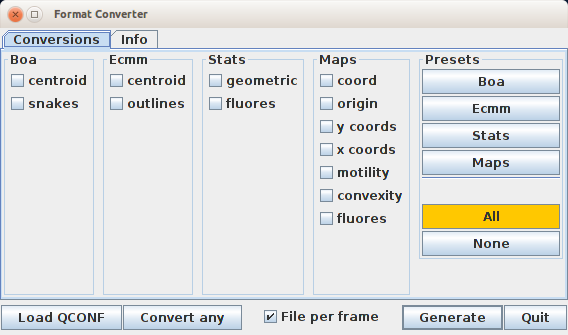
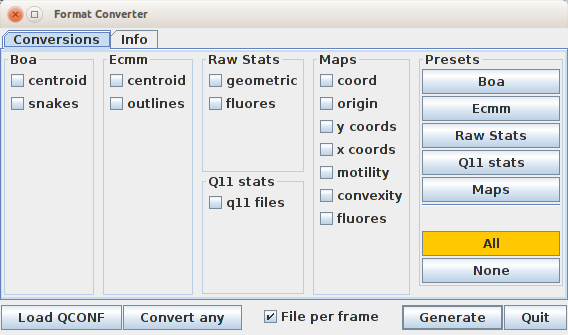
Fixes #9.

diff --git a/Docs/QuimP_Guide.tex b/Docs/QuimP_Guide.tex
@@ -517,14 +517,13 @@ ANA provides 5 further options
 
 Click \textit{OK}.
   
-Fluorescence data associated with specific nodes is added to either \textit{.snQP} 
-file and the \textit{QCONF} file, while whole cell data (e.g. total cortex fluorescence) is written to the \textit{.stQP.csv} file.
+Fluorescence data associated with specific nodes is saved in the \textit{QCONF} file and additionally in \textit{.stQP.csv}.
 
 \textbf{Step 4: For further channels, open the next channel image and re-run ANA.}
 
 \section{Compiling Data - Q Analysis Plugin}
 
-Data within \textit{.snQP} and \textit{.stQP} files can be read into Matlab at this point, but motility maps have not yet been generated.
+Data within \textit{QCONF} file (or \textit{.snQP} and \textit{.stQP} for old path\footnote{Refer to section \ref{sec:DataFilesExplained}}) files can be read into Matlab at this point, but motility maps have not yet been generated\footnote{If old path is selected, otherwise one should use Format Converter tool to obtain these files. Refer to section \ref{sec:DataFilesExplained}}.
 The Q Analysis plugin will build spatial-temporal maps of motility, fluorescence, and convexity,
 and also several other maps to aid analysis.  In addition, vector graphics are produced 
 using the \textit{Scalable Vector Graphics} format.  These include a cell track in which all cell outlines are overlaid and coloured
@@ -739,7 +738,7 @@ Every time when \textit{Apply} button is used, the module runs new analysis and 
 
 \subsection{Parameter files - new format vs. old format}
 The latest QuimP introduces a new file format called QCONF\footnote{above QuimP11}. The \textit{QCONF} is based on human-readable JSON format and it is designed to hold all results evaluated by QuimP on every stage of data processing, together with configuration parameters, algorithm settings, etc. 
-Initially, the \textit{QCONF} is generated by BOA plugin together with standard \textit{paQP} and \textit{snQP} files. Then, it can be loaded and saved by every other QuimP module. The \textit{QCONF} is not replacement for "old" formats - it rather extends them and allows for easy sharing of results between different QuimP modules, restoring work from last point and keeping the whole QuimP configuration in one place.   
+Initially, the \textit{QCONF} is generated by BOA plugin together with \textit{stQP} file (the same statistical measurements are also contained in \textit{QCONF}, \textit{stQP} file is saved separately for convenience sake). Remaining modules depend on \textit{QCONF}, thus they read and write all data from/to this file. The \textit{QCONF} is not replacement for "old" formats - it rather extends them and allows for easy sharing of results between different QuimP modules, restoring work from last point and keeping the whole QuimP configuration in one place.   
 
 Currently, QuimP understands both formats, but its behavior depends on the status of tick box available in QuimP Toolbar (Figure \ref{fig:quimpBar}) and on format loaded to module:
 \begin{itemize}
@@ -775,7 +774,7 @@ The \textit{QCONF} file can be loaded to Matlab using one of the free JSON parse
 \label{sec:ConversionBetweenFormats}
 QuimP supports conversion between old \textit{paQP} and new \textit{QCONF} formats. Simple tool for this purpose is available from the QuimP bar (see Figure \ref{fig:quimpBar}) under \textit{Tools} menu or in extended version as separate module (see Figure \ref{fig:formatconverter}). The module additionally allows to extract numeric data from \textit{QCONF} and save them in \textit{csv} files.
 
-\begin{figure}[ht]
+\begin{figure}[h]
 	\centering
 	\includegraphics[width=16cm]{fcWindow.png} 
 	\caption{Format converter dialog.}
@@ -794,7 +793,7 @@ Conversion tool is available from either the QuimP bar or Format Converter modul
 
 \textbf{Extracting data from \textit{QCONF} format}
 
-The Format converter module allows to save selected parameters evaluated during QuimP workflow as \textit{csv} files. They are not processed in any way (e.g. scaled to different units) and mostly coincide with content of \textit{snQP} or \textit{stQP.csv} files. This tool works only wit \textit{QCONF} files that should be first loaded by \textit{Load QCONF} button. Conversion process is initiated by \textit{Generate} button. Output files are saved in the same folder as input \textit{QCONF}.    
+The Format converter module (Figure \ref{fig:formatconverter}) allows to save selected parameters evaluated during QuimP workflow as \textit{csv} files. They are not processed in any way (e.g. scaled to different units) and mostly coincide with content of \textit{snQP} or \textit{stQP.csv} files (except of \textit{q11 files} checkbox that generates \textit{stQP} files). This tool works only wit \textit{QCONF} files that should be first loaded by \textit{Load QCONF} button. Conversion process is initiated by \textit{Generate} button. Output files are saved in the same folder as input \textit{QCONF}.    
   
 \subsection{Parameter Files - \textit{paQP} Files}
 \label{paQP}
@@ -864,7 +863,8 @@ by ANA (data is listed separately for all 3 available channels). Missing data is
 The cell centroid is computed as the weighted centre of the polygon formed by the cell outline.
 The measures computed by BOA are as follows:
 
-
+This file is generated and updated regardless of selected file format (\textit{QCONF} or \textit{paQP}). Refer to table \ref{filestable}
+ 
 \begin{itemize}
 
 	\item \textbf{X-Centroid} [$pixels$] - Horizontal pixel co-ordinate of the cell centroid.
